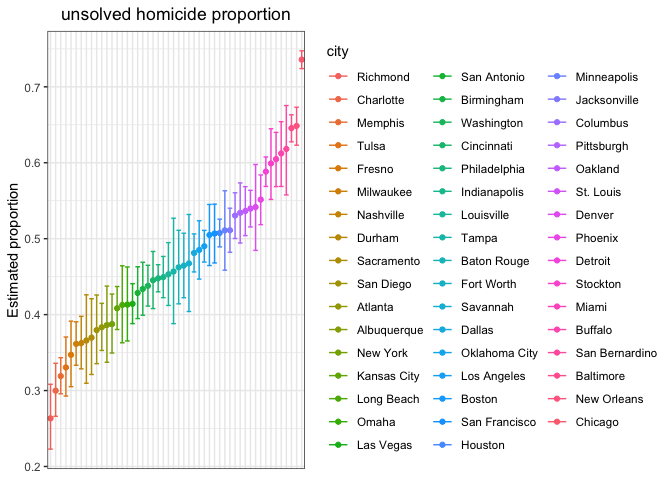
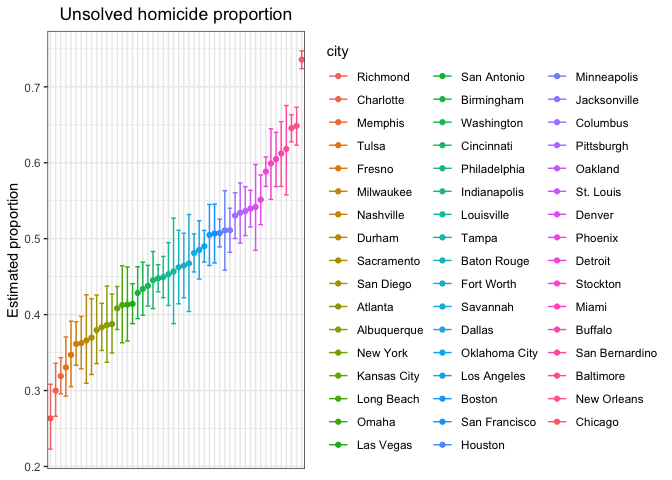
solve problem 2

Changed region(s): [[0.0938, 0.0, 0.4375, 0.0625]]

diff --git a/p8105_hw5_pt2632.md b/p8105_hw5_pt2632.md
@@ -6,17 +6,6 @@ HW5
 library(tidyverse)
 ```
 
-    ## ── Attaching core tidyverse packages ──────────────────────── tidyverse 2.0.0 ──
-    ## ✔ dplyr     1.1.3     ✔ readr     2.1.4
-    ## ✔ forcats   1.0.0     ✔ stringr   1.5.0
-    ## ✔ ggplot2   3.4.3     ✔ tibble    3.2.1
-    ## ✔ lubridate 1.9.3     ✔ tidyr     1.3.0
-    ## ✔ purrr     1.0.2     
-    ## ── Conflicts ────────────────────────────────────────── tidyverse_conflicts() ──
-    ## ✖ dplyr::filter() masks stats::filter()
-    ## ✖ dplyr::lag()    masks stats::lag()
-    ## ℹ Use the conflicted package (<http://conflicted.r-lib.org/>) to force all conflicts to become errors
-
 ## Problem 1
 
 The Washington Post has gathered data on homicides in 50 large U.S.
@@ -29,15 +18,6 @@ Describe the raw data.
 homicide = read_csv("./datasets/homicide-data.csv") |>
         mutate(city_state = str_c(city, state, sep = ', '))
 ```
-
-    ## Rows: 52179 Columns: 12
-    ## ── Column specification ────────────────────────────────────────────────────────
-    ## Delimiter: ","
-    ## chr (9): uid, victim_last, victim_first, victim_race, victim_age, victim_sex...
-    ## dbl (3): reported_date, lat, lon
-    ## 
-    ## ℹ Use `spec()` to retrieve the full column specification for this data.
-    ## ℹ Specify the column types or set `show_col_types = FALSE` to quiet this message.
 
 There are 52179 rows and 13 columns in the dataset.
 
@@ -290,7 +270,7 @@ test_result |>
         geom_point() +
         geom_errorbar(aes(ymin = conf_low, ymax = conf_high)) +
         theme_bw() +
-        labs(x = "", y = "Estimated proportion", title = "unsolved homicide proportion") +
+        labs(x = "", y = "Estimated proportion", title = "Unsolved homicide proportion") +
         theme(plot.title = element_text(hjust = 0.5), axis.title.x=element_blank(), axis.text.x=element_blank(), axis.ticks.x=element_blank())
 ```
 
@@ -306,14 +286,45 @@ arm.
 Create a tidy dataframe containing data from all participants, including
 the subject ID, arm, and observations over time:
 
+``` r
+pth = "./datasets/data/"
+data_files = list.files(pth)
+extract_info = function(filename, pth){
+        tibble(
+                read_csv(str_c(pth, filename))
+        )
+}
+longitudial_data = tibble(
+        id = str_extract(data_files, pattern = "\\d+"),
+        arm = str_extract(data_files, pattern = "^[a-zA-Z]+"),
+        data = map(data_files, extract_info, pth)
+        ) |> unnest(data)
+```
+
 Start with a dataframe containing all file names; the list.files
 function will help Iterate over file names and read in data for each
 subject using purrr::map and saving the result as a new variable in the
-dataframe Tidy the result; manipulate file names to include control arm
-and subject ID, make sure weekly observations are “tidy”, and do any
-other tidying that’s necessary Make a spaghetti plot showing
-observations on each subject over time, and comment on differences
-between groups.
+dataframe
+
+Tidy the result; manipulate file names to include control arm and
+subject ID, make sure weekly observations are “tidy”, and do any other
+tidying that’s necessary
+
+Make a spaghetti plot showing observations on each subject over time,
+and comment on differences between groups.
+
+``` r
+longitudial_data |> 
+        pivot_longer(starts_with("week_"), names_prefix = "week_", names_to = "week") |>
+        mutate(label = str_c(id, arm, sep = "_"), week = as.numeric(week)) |>
+        ggplot(aes(x = week, y = value, color = label)) +
+        geom_path() +
+        theme_bw() +
+        labs(x = "Week", y = "Value", title = "Longitudial Value") +
+        theme(plot.title = element_text(hjust = 0.5))
+```
+
+![](p8105_hw5_pt2632_files/figure-gfm/unnamed-chunk-9-1.png)<!-- -->
 
 ## Problem 3
 
